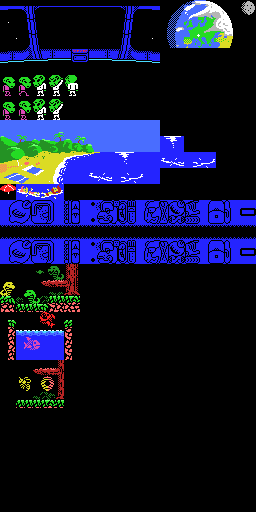
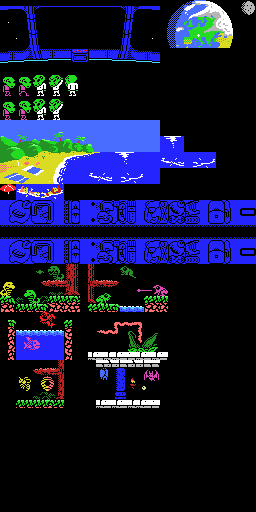
added three more enemy introduction scenes to the ending

Changed region(s): [[0.3438, 0.5, 0.6562, 0.8125]]

diff --git a/java/src/xspelunker2/Ending.java b/java/src/xspelunker2/Ending.java
@@ -157,6 +157,9 @@ public class Ending {
         generateEnemyTypeData("data/ending.png", 0, 33, "Chan, Strike Chan,", "Spitter Chan", "src/autogenerated/ending-enemy-intro-data0");
         generateEnemyTypeData("data/ending.png", 0, 39, "   Kay, Jump Kay", null, "src/autogenerated/ending-enemy-intro-data1");
         generateEnemyTypeData("data/ending.png", 0, 45, "     Paper wasp", null, "src/autogenerated/ending-enemy-intro-data2");
+        generateEnemyTypeData("data/ending.png", 11, 33, "Mooch, Jump Mooch,", "Tongue Mooch", "src/autogenerated/ending-enemy-intro-data3");
+        generateEnemyTypeData("data/ending.png", 11, 39, "     Audrey I", null, "src/autogenerated/ending-enemy-intro-data4");
+        generateEnemyTypeData("data/ending.png", 11, 45, "    Sotz, Zotzil", null, "src/autogenerated/ending-enemy-intro-data5");
     }
     
     
@@ -178,10 +181,16 @@ public class Ending {
                 data.add(v2);
             }
         }
+        if (font.stringWidthInPixels(names1) > 12*8) {
+            throw new Exception("Sentence '"+names1+"' is too long! ("+font.stringWidthInPixels(names1)+" vs 96)");
+        }
         data.addAll(font.convertStringToAssembler(names1));
         if (names2 == null) {
             data.add(0);
         } else {
+            if (font.stringWidthInPixels(names2) > 12*8) {
+                throw new Exception("Sentence '"+names2+"' is too long! ("+font.stringWidthInPixels(names2)+" vs 96)");
+            }
             data.addAll(font.convertStringToAssembler(names2));
         }
         
